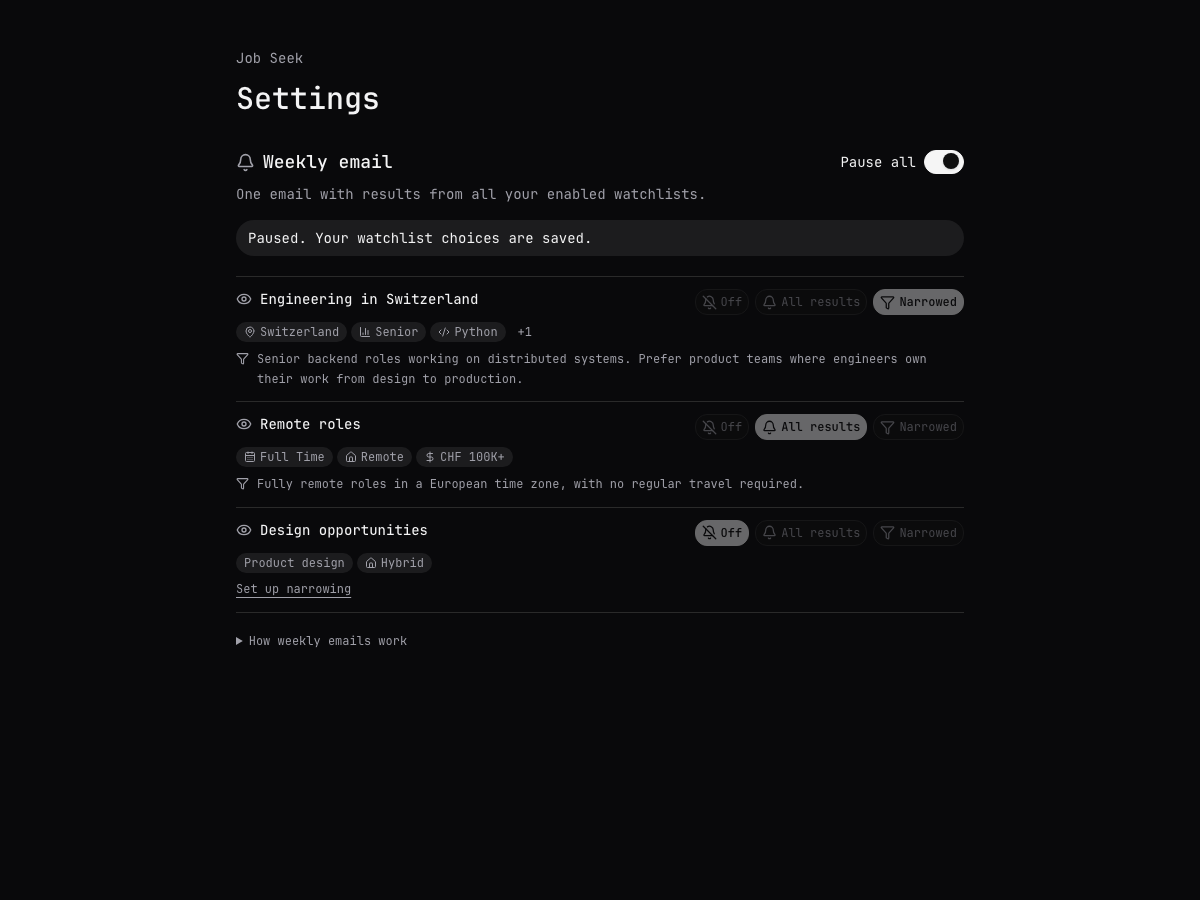
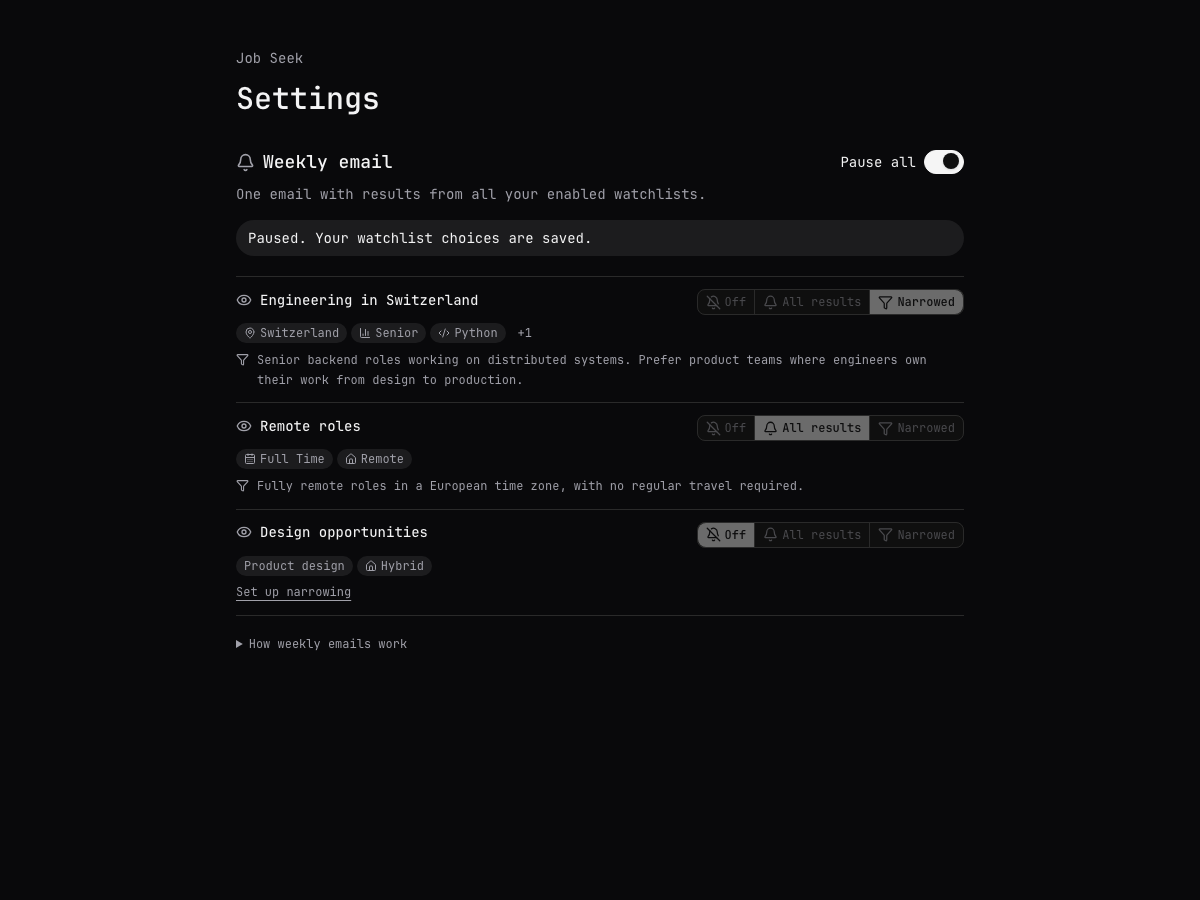
Use a connected notification scope selector

diff --git a/apps/web/src/components/settings/NotificationWatchlistChoices.tsx b/apps/web/src/components/settings/NotificationWatchlistChoices.tsx
@@ -39,29 +39,29 @@ function WatchlistChoice({ setting, paused }: { setting: NotificationWatchlistSe
   }
   const showPrompt = Boolean(setting.prompt);
   return <div className="min-w-0 py-3" aria-busy={busy}>
-    <div className="flex flex-col gap-2 sm:flex-row sm:items-start sm:justify-between">
+    <div className="flex flex-col gap-2 sm:flex-row sm:items-center sm:justify-between">
       <div className="min-w-0 flex-1">
         <Link id={`notification-title-${setting.id}`} href={lp(`/watchlists/${setting.id}`)} prefetch={false} title={setting.title} className="inline-flex max-w-full items-center gap-2 text-sm font-medium hover:underline focus-visible:outline-none focus-visible:ring-2 focus-visible:ring-primary">
           <Eye size={16} aria-hidden="true" className="shrink-0 text-muted" /><span className="min-w-0 truncate">{setting.title}</span>
         </Link>
-        {setting.filterPreview && <div className="mt-2"><FilterPillsReadOnly {...setting.filterPreview} workMode={setting.filterPreview.filters.workMode} compact maxVisible={3} /></div>}
       </div>
-      <fieldset disabled={paused || busy} className="flex shrink-0 flex-wrap gap-1.5 sm:flex-nowrap sm:self-start">
+      <fieldset disabled={paused || busy} className="flex w-fit max-w-full shrink-0 overflow-hidden rounded-sm border border-divider bg-surface">
         <legend className="sr-only">{setting.title}</legend>
         {([
           { value: "off", Icon: BellOff, label: t({ id: "settings.notifications.off", comment: "Exclude this watchlist from the weekly email", message: "Off" }) },
           { value: "all", Icon: Bell, label: t({ id: "settings.notifications.all", comment: "Include all jobs matching the structured watchlist filters", message: "All results" }) },
           { value: "narrowed", Icon: Funnel, label: t({ id: "settings.notifications.narrowed", comment: "Include only accepted results from the saved prompt", message: "Narrowed" }) },
-        ] as const).map(({ value, Icon, label }) => <label key={value} className="relative min-w-0 cursor-pointer">
+        ] as const).map(({ value, Icon, label }) => <label key={value} className="relative min-w-0 cursor-pointer border-l border-divider first-of-type:border-l-0">
           <input type="radio" name={`notification-mode-${setting.id}`} value={value} checked={mode === value}
             disabled={value === "narrowed" && !setting.narrowingAvailable}
             onChange={() => change(value)} className="peer sr-only" />
-          <span className="inline-flex items-center justify-center gap-1 rounded-md border border-divider bg-surface px-1.5 py-1 text-xs text-muted transition-colors hover:bg-border-soft peer-checked:border-primary peer-checked:bg-primary peer-checked:font-semibold peer-checked:text-primary-contrast peer-focus-visible:outline-none peer-focus-visible:ring-2 peer-focus-visible:ring-primary peer-disabled:cursor-not-allowed peer-disabled:opacity-40">
+          <span className="flex h-full items-center justify-center gap-1 px-2 py-1 text-xs text-muted transition-colors hover:bg-border-soft peer-checked:bg-primary peer-checked:font-semibold peer-checked:text-primary-contrast peer-focus-visible:outline peer-focus-visible:outline-2 peer-focus-visible:-outline-offset-2 peer-focus-visible:outline-primary peer-checked:peer-focus-visible:outline-primary-contrast peer-disabled:cursor-not-allowed peer-disabled:opacity-40">
             <Icon size={15} aria-hidden="true" /><span>{label}</span>
           </span>
         </label>)}
       </fieldset>
     </div>
+    {setting.filterPreview && <div className="mt-2"><FilterPillsReadOnly {...setting.filterPreview} workMode={setting.filterPreview.filters.workMode} compact maxVisible={3} /></div>}
     {showPrompt && <div className="mt-2 flex items-start gap-2 text-xs leading-relaxed text-muted">
       <Funnel size={13} aria-hidden="true" className="mt-0.5 shrink-0" />
       <p id={`notification-prompt-${setting.id}`} className="min-w-0 whitespace-pre-wrap break-words">{setting.prompt}</p>

diff --git a/docs/reviews/8317-notifications/README.md b/docs/reviews/8317-notifications/README.md
@@ -14,7 +14,8 @@ Each watchlist contributes all matching results, narrowed results only, or no
 results. Every saved narrowing prompt stays fully visible, including when all
 results or no emails are selected. The title and selector share one desktop
 row, using the existing Settings control styles and familiar
-watchlist/notification/narrowing icons. All three radio choices remain visible. Compact filter chips expand to show all filters;
+watchlist/notification/narrowing icons. All three radio choices remain visible in one connected control with shared
+borders, making the exclusive selection clear. Compact filter chips expand to show all filters;
 explanations are under “How weekly emails work”. There are no share or
 delete controls here. The email remains one consolidated message across all
 enabled watchlists, with duplicate jobs shown once.
